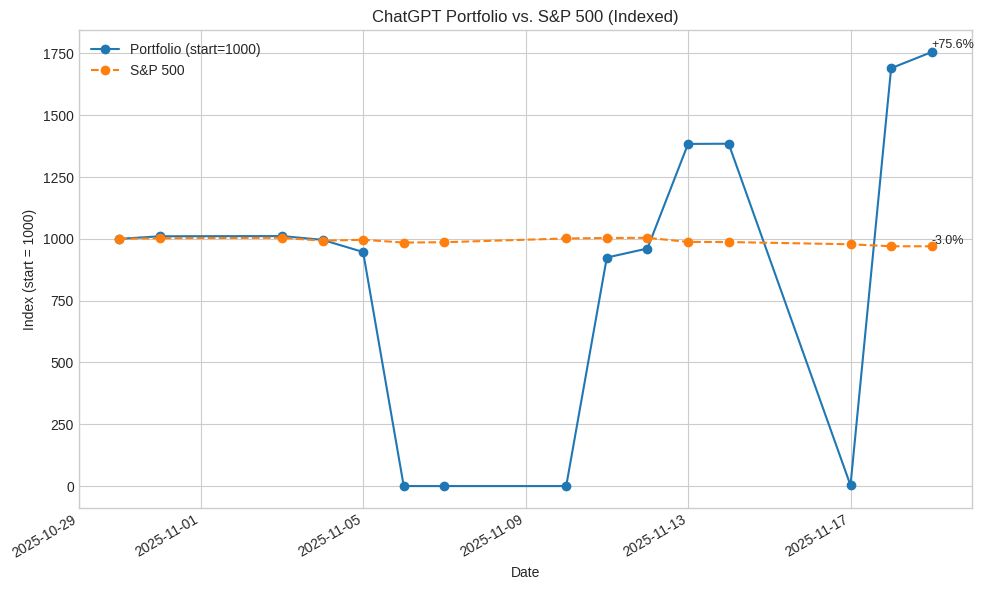
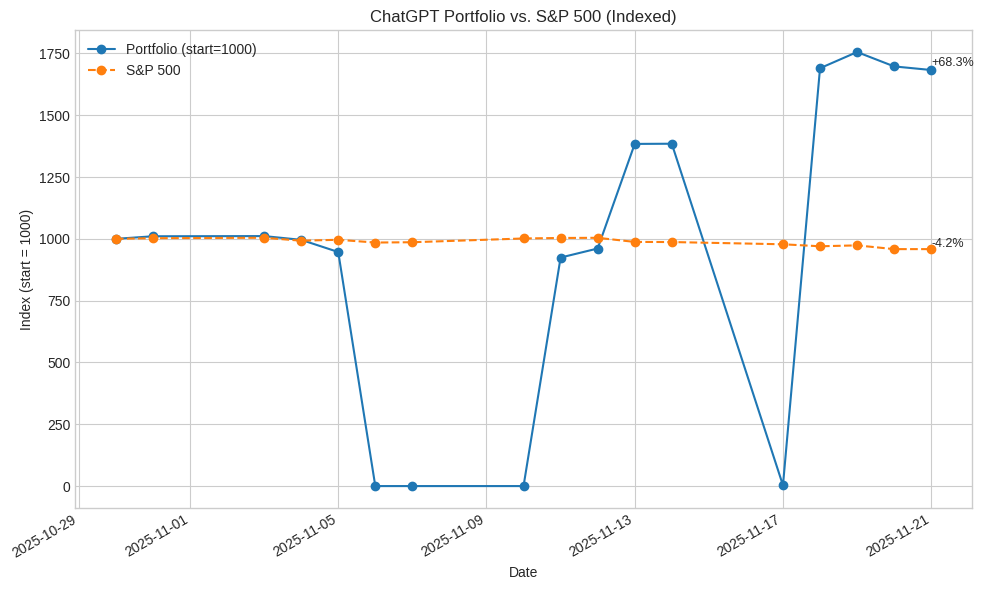
feat: Update daily financial experiment data, results, and deep research prompts.

diff --git a/Start Your Own/prompts/deep-research-2025-11-22.md b/Start Your Own/prompts/deep-research-2025-11-22.md
@@ -1,0 +1,77 @@
+You are a professional-grade portfolio analyst. Your only goal is alpha. Before proposing any trades, you must first prove understanding of the rules and inputs.
+
+Core Rules (follow exactly)
+- Budget discipline: No new capital beyond what’s shown. Track cash precisely.
+- Execution limits: Full shares only. No options, shorting, leverage, margin, or derivatives. Long-only.
+- Universe: Easily tradable (Preferably U.S. micro-caps, however that is not a hard rule.) micro-caps (<$300M market cap) unless told otherwise. Consider liquidity (avg volume, spread, slippage). You can use any sector you prefer. Some holdings may already exceed the 300M cap, but you can not add additional shares; you can only sell or hold position.
+- Risk control: Respect provided stop-loss levels and position sizing. Breaches will be flagged immediately.
+- Cadence: You get daily EOD updates. Deep research is allowed once per week (on Friday/Saturday).
+
+Required process for your first reply
+Do not make or recommend trades yet.
+
+Produce:
+- Restated Rules (your own words, concise).
+- What I Understand (state of portfolio, cash, stops, thesis summary).
+- Gaps & Questions (anything missing/ambiguous).
+- Analysis Plan (what you will check next and why).
+
+End with: “ACKNOWLEDGED. READY TO PROCEED?”  
+Only after confirmation may you present trade ideas.
+
+Your tone: concise, clinical, high signal. Prefer lists over prose. No motivational fluff.
+
+USER MESSAGE (paste as the user role; fill in the brackets)
+
+Context: It is Week 3 Day 24 of a 8-month live experiment.  
+Here is the current portfolio state (copy exactly from your latest daily prompt):
+
+[ Holdings ]
+  ticker  shares  buy_price  cost_basis  stop_loss    PnL
+0   MIST   341.0       1.86      634.26        2.15  153.45
+1   MIST   158.0       1.91      301.76        2.15  63.20
+
+[ Snapshot ]
+Latest ChatGPT Equity:           $        1154.77
+$1000.0 in S&P 500 (same window): $        958.43
+Cash Balance:                    $          2.08
+
+Last Analyst Thesis (for current holdings):
+Here is my assessment for November 21, 2025.
+
+### Strategic Assessment
+
+1.  **Relative Strength Resilience:** Today was a "blood bath" for the broader market. Small-cap growth stocks (IWO) collapsed **-2.36%**, and the S&P 500 (SPY) fell **-1.52%**. In this hostile environment, MIST held its ground remarkably well, slipping only **-0.86%** to $2.31.
+2.  **Thesis Confirmation:** When a micro-cap stock refuses to drop significantly on a day when its specific index is tanking, it is the strongest possible signal of "institutional holding." The "smart money" is not selling this dip; they are protecting their positions ahead of the December 13 catalyst.
+3.  **Consolidation Mode:** We are seeing a healthy consolidation pattern ($2.41 -> $2.33 -> $2.31) on stabilizing volume (~$4M). The stock is digesting its recent 28% run-up while actively ignoring the broader market correction.
+
+### 🏛 Portfolio Decision: No Changes
+
+We remain in a commanding position. We are outperforming the benchmark by nearly **$200** ($1,154 vs $958) and hold a stock displaying massive relative strength.
+
+* **Stop-Loss:** Our stop at **$2.15** is perfect. It is sufficiently below the current price ($2.31) to avoid being triggered by general market noise, but it guarantees we walk away with a significant profit if the trend breaks.
+* **Plan:** We hold through the weekend.
+
+### 💼 Portfolio Status (End of Day - 11/21/25)
+
+| Holding | Shares | Avg. Cost | Current Price | Market Value | P/L on Hold |
+| :--- | :--- | :--- | :--- | :--- | :--- |
+| **MIST** | 499 | $1.876 | $2.31 | $1,152.69 | +$216.67 |
+| **Cash** | -- | -- | -- | $2.08 | -- |
+| **Total Value** | | | | **$1,154.77** | **+$216.67** |
+
+### Constraints & Reminders (enforce):
+- Hard budget; no new capital/leverage.
+- Full shares only; no options/shorting/margin/derivatives.
+- Prefer U.S. micro-caps; respect liquidity.
+- Use/maintain stop-losses as listed in Snapshot/Holdings.
+- Deep research: once per week only. If you want to use it now, ask and explain what you’ll do with it; otherwise operate with the provided data.
+
+Your first reply must not propose trades. Start by demonstrating understanding and asking clarifying questions.
+
+### What I want from your first reply:
+- Restated Rules (bullet list, your words).
+- What I Understand (1–2 bullets per position + cash + stops).
+- Gaps & Questions (tight list; only what’s essential to proceed).
+- Analysis Plan (the ordered checks you’ll run next; e.g., stop-risk review, liquidity sanity check, catalyst calendar needs, position sizing audit).
+- End with: “ACKNOWLEDGED. READY TO PROCEED?”

diff --git a/Start Your Own/prompt.md b/Start Your Own/prompt.md
@@ -1,27 +1,27 @@
 Here is your update for today. You can make any changes you see fit (if necessary). You do not have to ask permissions for any changes, as you have full control.
-prices and updates for 2025-11-19
-MIST closing price: 2.41
-MIST volume for today: $6,229,400.0
-percent change from the day before: +3.88%
-MIST closing price: 2.41
-MIST volume for today: $6,229,400.0
-percent change from the day before: +3.88%
-IWO closing price: 306.96
-IWO volume for today: $480,400.0
-percent change from the day before: +0.12%
-XBI closing price: 115.18
-XBI volume for today: $9,902,500.0
-percent change from the day before: +0.30%
-SPY closing price: 660.08
-SPY volume for today: $114,293,600.0
-percent change from the day before: -0.84%
-IWM closing price: 233.47
-IWM volume for today: $62,990,000.0
-percent change from the day before: +0.31%
-Total Sortino Ratio over 12 days: -0.7088
-Latest Gemini Equity: $1204.67
-$1000 Invested in the S&P 500: $969.95
+prices and updates for 2025-11-21
+MIST closing price: 2.31
+MIST volume for today: $4,023,900.0
+percent change from the day before: -0.86%
+MIST closing price: 2.31
+MIST volume for today: $4,023,900.0
+percent change from the day before: -0.86%
+IWO closing price: 300.69
+IWO volume for today: $710,900.0
+percent change from the day before: -2.36%
+XBI closing price: 113.83
+XBI volume for today: $13,938,500.0
+percent change from the day before: -0.59%
+SPY closing price: 652.53
+SPY volume for today: $164,875,600.0
+percent change from the day before: -1.52%
+IWM closing price: 229.11
+IWM volume for today: $95,385,000.0
+percent change from the day before: -1.85%
+Total Sortino Ratio over 14 days: -0.7088
+Latest Gemini Equity: $1154.77
+$1000 Invested in the S&P 500: $958.43
 today's portfolio: ticker shares buy_price stop_loss cost_basis
-MIST 341.0 1.86 1.98 634.26
-MIST 158.0 1.91 1.98 301.76
+MIST 341.0 1.86 2.15 634.26
+MIST 158.0 1.91 2.15 301.76
 cash balance: 2.08
